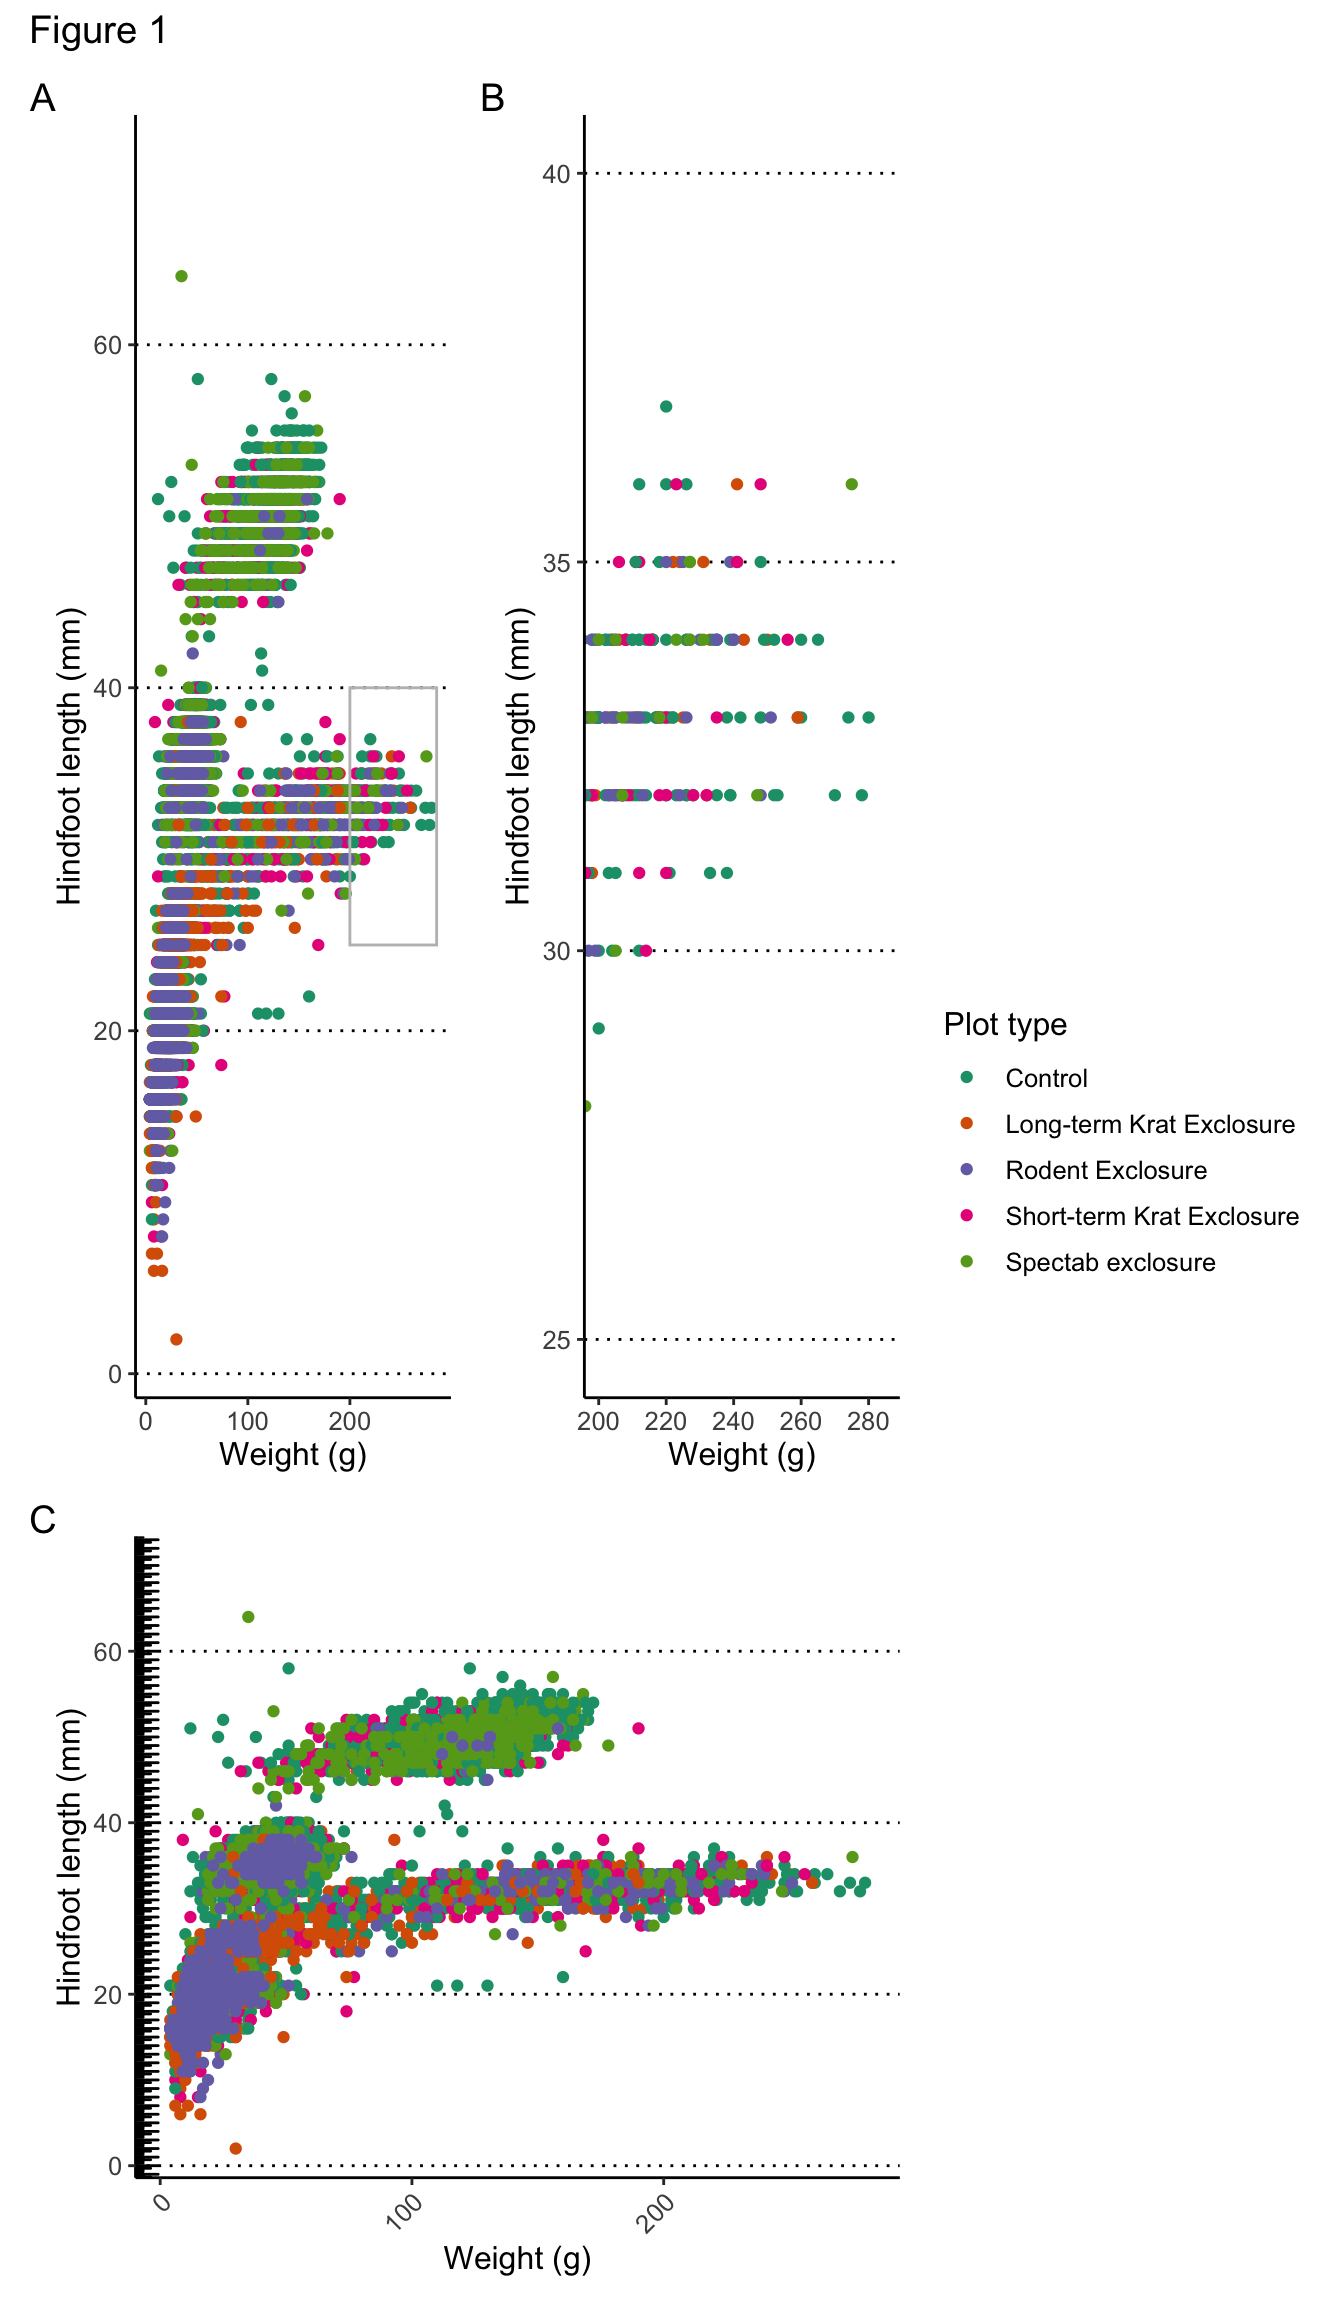
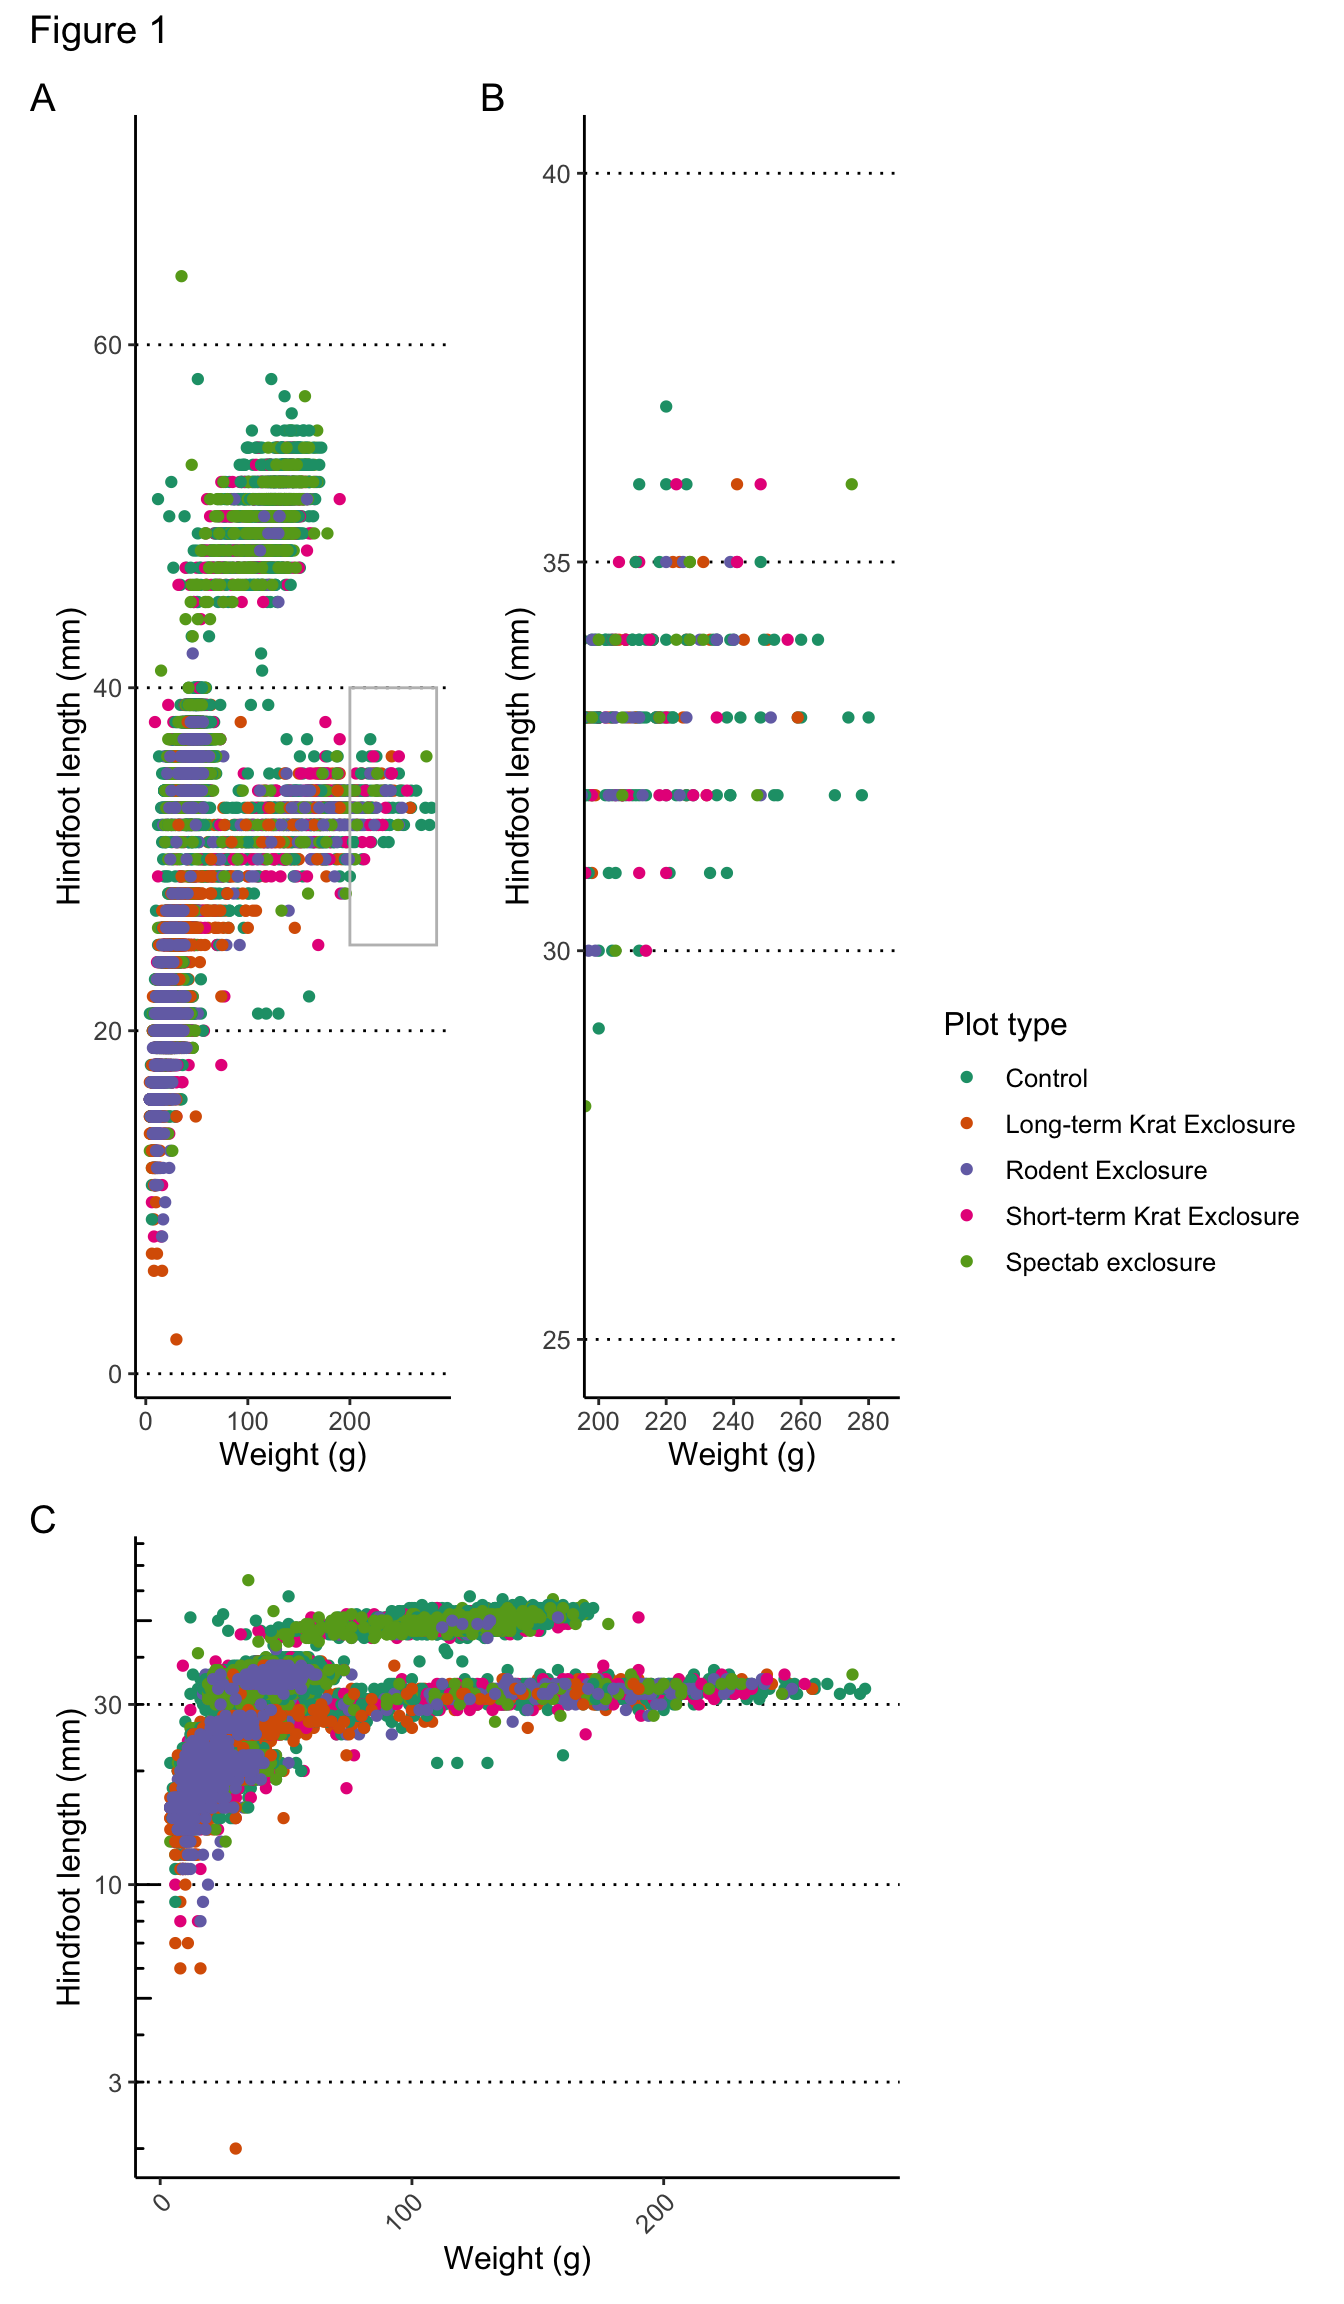
updated error multi-panel exercise

Changed region(s): [[0.0625, 0.6562, 0.6562, 0.9688]]

diff --git a/docs/05-customising-plots.html b/docs/05-customising-plots.html
@@ -710,9 +710,10 @@ Answer
 <span id="cb21-20"><a href="#cb21-20" aria-hidden="true" tabindex="-1"></a>  <span class="fu">geom_point</span>(<span class="fu">aes</span>(<span class="at">colour =</span> plot_type)) <span class="sc">+</span></span>
 <span id="cb21-21"><a href="#cb21-21" aria-hidden="true" tabindex="-1"></a>  <span class="fu">scale_colour_brewer</span>(<span class="at">palette =</span> <span class="st">&quot;Dark2&quot;</span>) <span class="sc">+</span></span>
 <span id="cb21-22"><a href="#cb21-22" aria-hidden="true" tabindex="-1"></a>  <span class="fu">annotation_logticks</span>(<span class="at">sides =</span> <span class="st">&quot;l&quot;</span>) <span class="sc">+</span></span>
-<span id="cb21-23"><a href="#cb21-23" aria-hidden="true" tabindex="-1"></a>  <span class="fu">labs</span>(<span class="at">x =</span> <span class="st">&quot;Weight (g)&quot;</span>, <span class="at">y =</span> <span class="st">&quot;Hindfoot length (mm)&quot;</span>) <span class="sc">+</span></span>
-<span id="cb21-24"><a href="#cb21-24" aria-hidden="true" tabindex="-1"></a>  <span class="fu">theme</span>(<span class="at">legend.position =</span> <span class="st">&quot;none&quot;</span>,</span>
-<span id="cb21-25"><a href="#cb21-25" aria-hidden="true" tabindex="-1"></a>        <span class="at">axis.text.x =</span> <span class="fu">element_text</span>(<span class="at">angle =</span> <span class="dv">45</span>, <span class="at">hjust =</span> <span class="dv">1</span>))</span></code></pre></div>
+<span id="cb21-23"><a href="#cb21-23" aria-hidden="true" tabindex="-1"></a>  <span class="fu">scale_y_continuous</span>(<span class="at">trans =</span> <span class="st">&quot;log10&quot;</span>) <span class="sc">+</span></span>
+<span id="cb21-24"><a href="#cb21-24" aria-hidden="true" tabindex="-1"></a>  <span class="fu">labs</span>(<span class="at">x =</span> <span class="st">&quot;Weight (g)&quot;</span>, <span class="at">y =</span> <span class="st">&quot;Hindfoot length (mm)&quot;</span>) <span class="sc">+</span></span>
+<span id="cb21-25"><a href="#cb21-25" aria-hidden="true" tabindex="-1"></a>  <span class="fu">theme</span>(<span class="at">legend.position =</span> <span class="st">&quot;none&quot;</span>,</span>
+<span id="cb21-26"><a href="#cb21-26" aria-hidden="true" tabindex="-1"></a>        <span class="at">axis.text.x =</span> <span class="fu">element_text</span>(<span class="at">angle =</span> <span class="dv">45</span>, <span class="at">hjust =</span> <span class="dv">1</span>))</span></code></pre></div>
 </details>
 </div>
 <p><br /></p>
